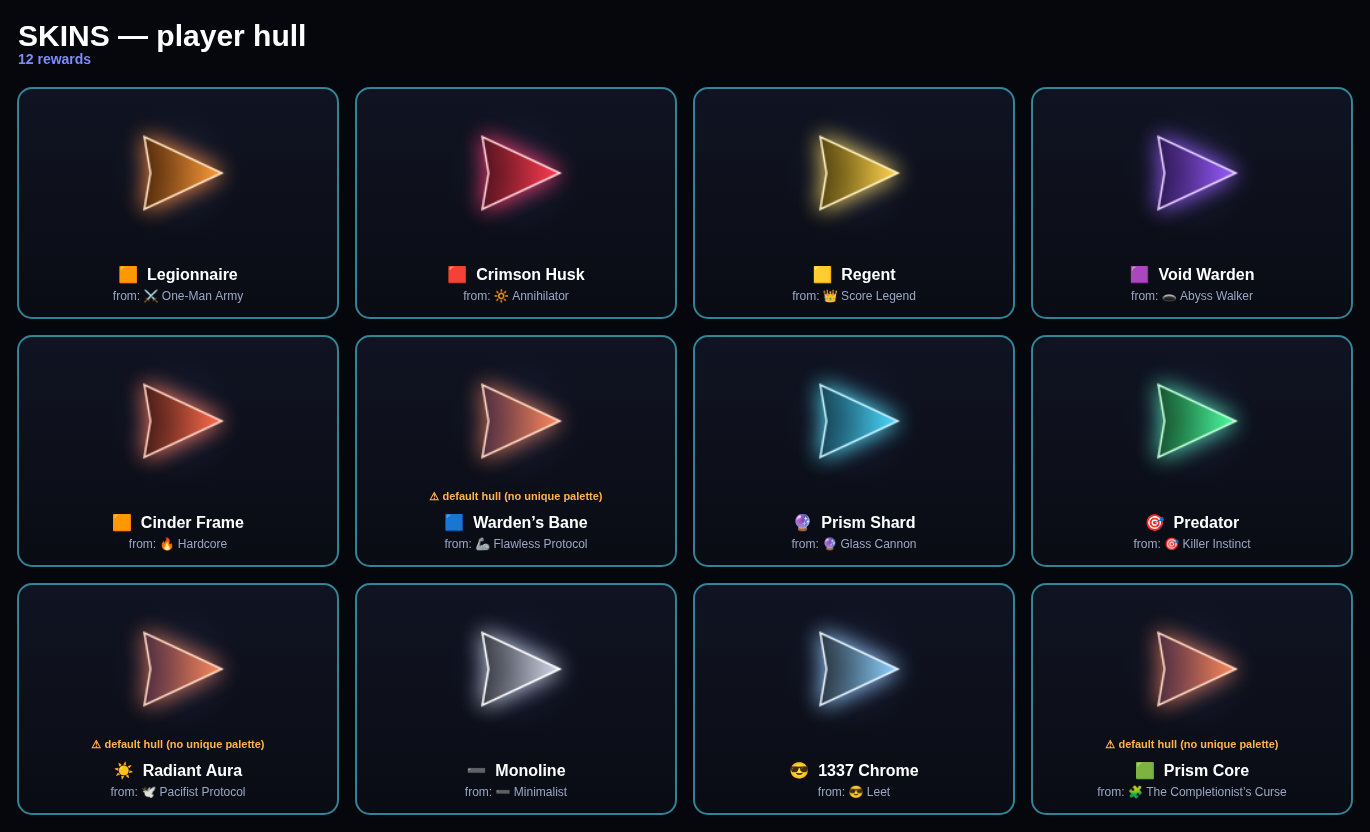
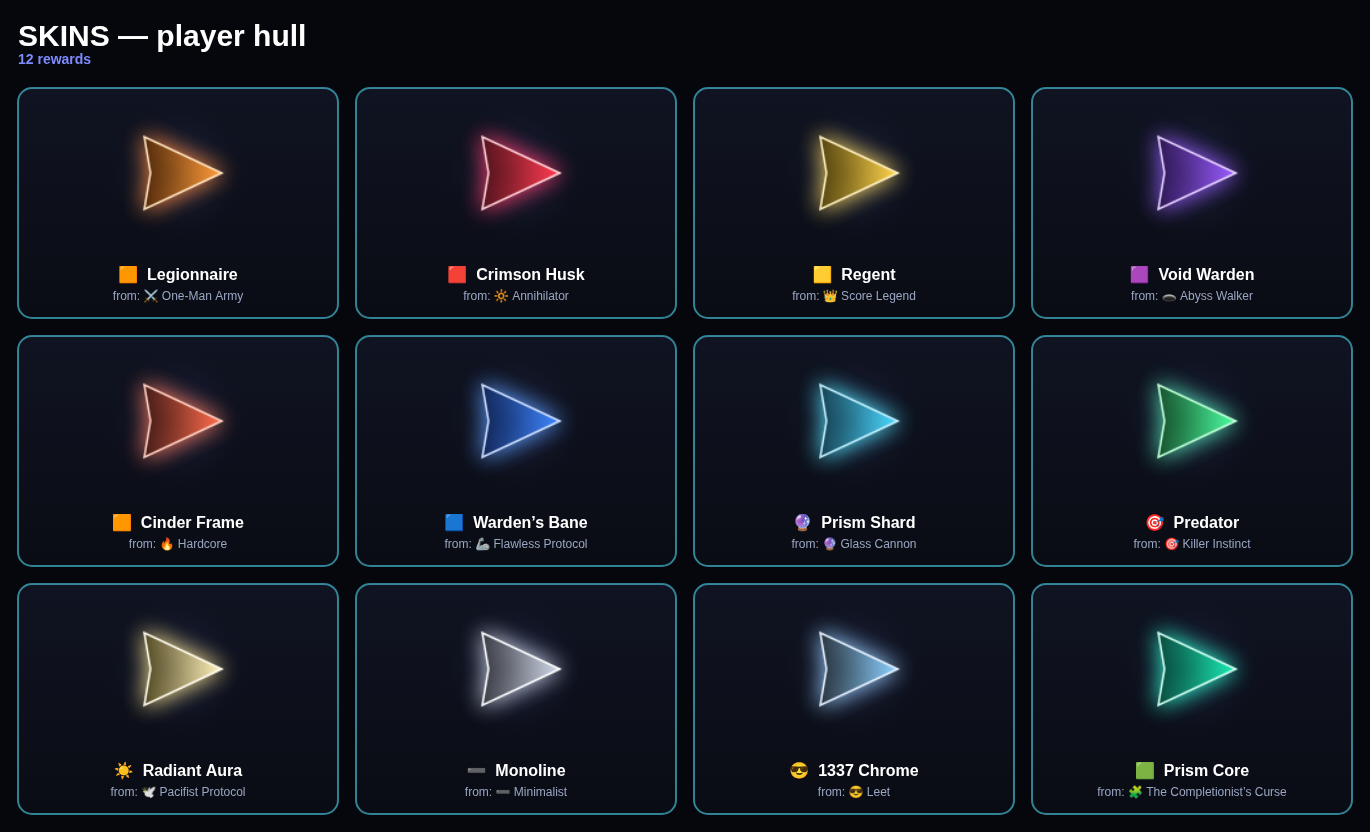
feat: give the 3 palette-less skins unique hulls
Warden's Bane, Radiant Aura and Prism Core had no SKIN_PALETTE entry, so
they rendered as the default orange hull in-game despite being granted as
distinct rewards (two are gold-tier). Add a unique palette for each, fitting
its achievement's vibe: sapphire for the boss-bane, white-gold halo for the
pacifist aura, jade prism for the completionist. All 12 skins now look
distinct. Regenerate the reward reference sheet to match.

Claude-Session: https://claude.ai/code/session_011D8D6oaChrYBarmN5LscjJ

diff --git a/js/core.js b/js/core.js
@@ -56,6 +56,9 @@ const SKIN_PALETTE={
   predator    :{c0:'#0f3a1c',c1:'#4aff9d',shadow:'#54e6b5',stroke:'#c2ffd9'},
   monoline    :{c0:'#22242c',c1:'#cfd6e6',shadow:'#cfd6e6',stroke:'#ffffff'},
   leet_chrome :{c0:'#1a1c22',c1:'#8ad0ff',shadow:'#9ad0ff',stroke:'#e6f2ff'},
+  wardens_bane:{c0:'#0a1840',c1:'#3b82ff',shadow:'#5b9dff',stroke:'#cfe0ff'},   // sapphire — boss-bane
+  radiant_aura:{c0:'#3a3212',c1:'#fff2c0',shadow:'#ffe48a',stroke:'#fffdf0'},   // white-gold halo — pacifist
+  prism_core  :{c0:'#06322a',c1:'#19e6b0',shadow:'#2cffcf',stroke:'#d2fff2'},   // jade prism — completionist
 };
 // player hull baked once per (rage,r,skin) — gradient + shadow are expensive; the hull is static
 function shipSprite(rage,r,skin){const pal=(!rage&&skin&&SKIN_PALETTE[skin])||_SKIN_DEF;